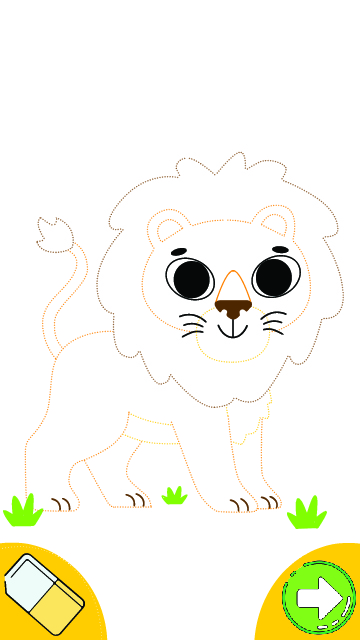
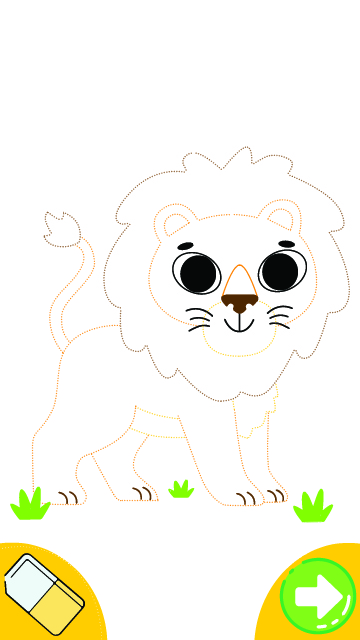
new img

diff --git a/js/game.js b/js/game.js
@@ -126,7 +126,7 @@ function preload ()
     this.load.image('bg8', 'assets/animal8.jpg');
     this.load.image('bg9', 'assets/animal9.jpg');
     this.load.image('bg10', 'assets/animal10.jpg');
-//    this.load.image('bg11', 'assets/p5-2.jpeg');
+    this.load.image('bg11', 'assets/animal11.jpeg');
 //    this.load.image('bg12', 'assets/p5-3.jpeg');
 //    this.load.image('bg13', 'assets/p6-1.jpeg');
 //    this.load.image('bg14', 'assets/p6-2.jpeg');
